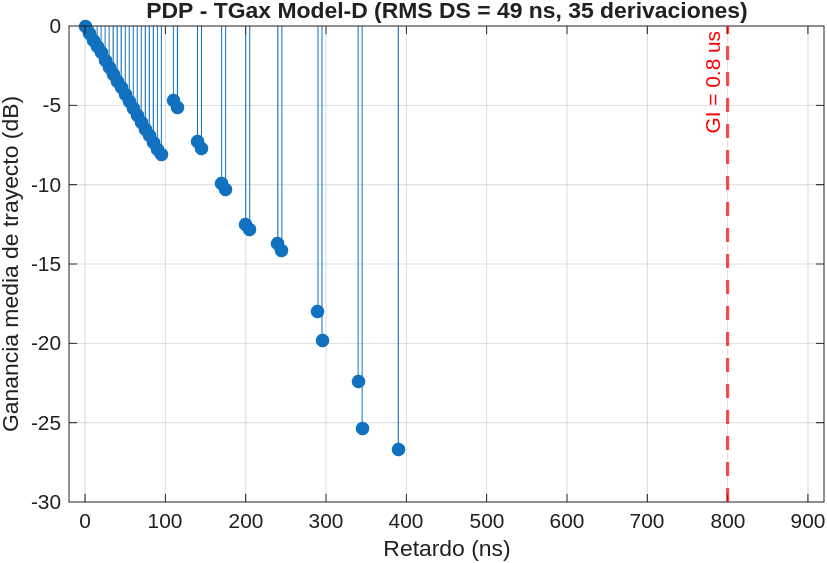
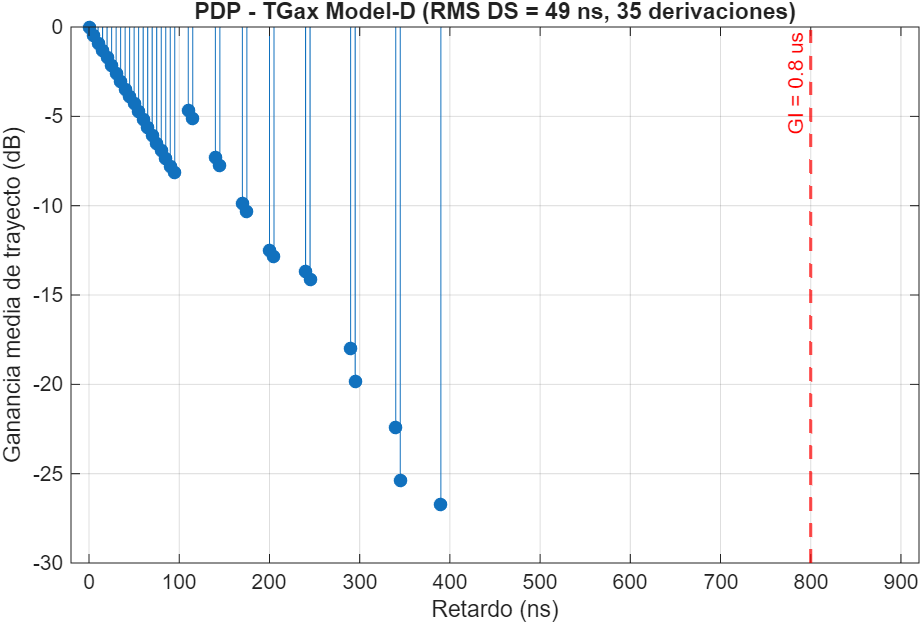
Rol C Receptor

Changed region(s): [[0.0, 0.0, 1.0, 0.9964], [0.8767, 0.302, 0.9069, 0.4831], [0.8767, 0.6039, 0.9069, 0.6341]]

diff --git a/matlab/receptor_wifi.m b/matlab/receptor_wifi.m
@@ -1,0 +1,119 @@
+% =========================================================================
+% ROL C - RECEPTOR Wi-Fi 7 (802.11be) - SOLO RECEPCION (sin validacion)
+% Equipo 4 - Interfaces de Comunicaciones
+% =========================================================================
+%
+% Uso recomendado (integracion con el equipo):
+%   1) Ejecutar transmisor y canal para obtener: cfgEHT y rxWaveform
+%   2) Ejecutar este script
+%
+% Este script hace:
+%   - Deteccion basica de inicio de paquete
+%   - Alineacion y recorte de la PPDU recibida
+%   - Salida de una estructura rxOut util para quien valida (PER/BER)
+%   - Grafica simple en tiempo para comparacion rapida
+
+clearvars -except cfgEHT rxWaveform txWaveform txPad chan p
+close all;
+
+%% 0) Modo demo si no hay senal de entrada integrada -----------------------
+if ~exist('cfgEHT','var') || ~exist('rxWaveform','var')
+    fprintf(['No se encontro una entrada integrada (cfgEHT + rxWaveform).\n' ...
+             'Ejecutando un flujo demo con transmisor y canal del repositorio...\n\n']);
+
+    % Reusar el transmisor existente del rol A
+    transmisor;
+
+    % Parametros del canal compatibles con test_channel.m
+    p.chanBW             = 'CBW80';
+    p.numRxAntennas      = 2;
+    p.delayProfile       = 'Model-D';
+    p.txRxDistance       = 11;
+    p.carrierFrequency   = 5.29e9;
+    p.environmentalSpeed = 0.089;
+    p.largeScaleFading   = 'None';
+    p.fluorescentEffect  = false;
+
+    [chan, ~] = channel_config(p, cfgEHT);
+
+    release(chan);
+    reset(chan);
+    rxWaveform = chan(txPad);
+end
+
+%% 1) Parametros basicos de recepcion --------------------------------------
+fs = wlanSampleRate(cfgEHT);
+cbw = cfgEHT.ChannelBandwidth;
+
+% Deteccion simple de inicio de paquete con la primera antena Rx
+pktOffset = wlanPacketDetect(rxWaveform(:,1), cbw);
+if isempty(pktOffset)
+    warning(['No se detecto inicio de paquete con wlanPacketDetect. ' ...
+             'Se asume inicio en la muestra 1.']);
+    pktOffset = 0;
+end
+
+pktStart = pktOffset + 1;
+
+% Longitud esperada de la PPDU para recorte rapido
+ind = wlanFieldIndices(cfgEHT);
+ppduLen = ind.EHTData(2);
+pktEnd = min(pktStart + ppduLen - 1, size(rxWaveform,1));
+
+rxPPDU = rxWaveform(pktStart:pktEnd, :);
+
+% Normalizacion de amplitud para facilitar etapas posteriores
+scale = max(abs(rxPPDU(:)));
+if scale > 0
+    rxPPDU = rxPPDU ./ scale;
+end
+
+%% 2) Salida del receptor para integracion con validacion -------------------
+rxOut = struct();
+rxOut.fs = fs;
+rxOut.channelBandwidth = cbw;
+rxOut.packetOffset = pktOffset;
+rxOut.packetStartSample = pktStart;
+rxOut.packetEndSample = pktEnd;
+rxOut.rxPPDU = rxPPDU;
+rxOut.numRxAntennas = size(rxPPDU,2);
+rxOut.numSamples = size(rxPPDU,1);
+
+fprintf('=== Receptor Wi-Fi (solo recepcion) ===\n');
+fprintf('Ancho de banda           : %s\n', cbw);
+fprintf('Frecuencia de muestreo   : %.2f MHz\n', fs/1e6);
+fprintf('Inicio detectado         : muestra %d\n', pktStart);
+fprintf('Fin de PPDU (recortado)  : muestra %d\n', pktEnd);
+fprintf('Tamano rxPPDU            : %d x %d (muestras x antenas Rx)\n\n', ...
+    rxOut.numSamples, rxOut.numRxAntennas);
+
+%% 3) Grafica simple para comparacion rapida --------------------------------
+t_us = (0:rxOut.numSamples-1).'/fs*1e6;
+
+figure('Name','Receptor Wi-Fi - Senal recibida en tiempo', 'Color','w');
+plot(t_us, real(rxOut.rxPPDU(:,1)), 'LineWidth', 1.0);
+grid on;
+xlabel('Tiempo (us)');
+ylabel('Amplitud (parte real, Rx1)');
+title('Senal recibida en el tiempo (PPDU recortada y normalizada)');
+
+% Si existe Tx en workspace, mostrar comparacion visual rapida de magnitudes
+if exist('txPad','var')
+    txLen = min(size(txPad,1), size(rxWaveform,1));
+    txMag = abs(txPad(1:txLen,1));
+    rxMag = abs(rxWaveform(1:txLen,1));
+
+    txMag = txMag ./ max(txMag + eps);
+    rxMag = rxMag ./ max(rxMag + eps);
+    t2_us = (0:txLen-1).'/fs*1e6;
+
+    figure('Name','Comparacion rapida Tx/Rx', 'Color','w');
+    plot(t2_us, txMag, 'LineWidth', 1.0);
+    hold on;
+    plot(t2_us, rxMag, 'LineWidth', 1.0);
+    grid on;
+    xlabel('Tiempo (us)');
+    ylabel('Magnitud normalizada');
+    legend('Tx (antena 1)', 'Rx (antena 1)', 'Location', 'best');
+    title('Comparacion visual rapida de magnitud en tiempo');
+end

diff --git a/docs/enunciado.md b/docs/enunciado.md
@@ -1,0 +1,275 @@
+## Asignación de Proyecto Extraclase
+
+Simulación de Interfaces de Comunicaciones en MATLAB / Simulink
+
+## 1. Objetivo del proyecto
+
+Diseñar, simular y validar el enlace de comunicaciones (transmisor–canal–receptor) de una interfaz real de la industria, utilizando los toolboxes especializados de MATLAB/Simulink, y compartir el trabajo mediante un video explicativo de 15-20 minutos.
+
+El video es el único entregable y debe demostrar tanto el dominio técnico (resultados de simulación) como la comprensión conceptual del estándar (historia, arquitectura, tendencias).
+
+## 2. Alcance y herramientas
+
+El proyecto cubre seis interfaces, de las categorías alambrada, inalámbrica de área local/personal, y celular:
+
+- Interconexión de alta velocidad: PCIe, USB, Ethernet — mediante SerDes Toolbox, con gen- eración de modelos IBIS-AMI compatibles con la industria.
+
+- Redes inalámbricas de área local/personal: Wi-Fi y Bluetooth — mediante WLAN Toolbox y Bluetooth Toolbox, con formas de onda conformes a IEEE 802.11 y a la especificación Bluetooth SIG.
+
+- Red celular: 5G NR — mediante 5G Toolbox, con modelos de canal 3GPP (CDL/TDL).
+
+Se requiere licencia completa de MATLAB con acceso a los toolboxes mencionados. Todo equipo debe partir de un ejemplo oficial de MathWorks correspondiente a su tecnología antes de modificar parámetros propios.
+
+## 3. Estructura de equipos y roles
+
+Los 27 estudiantes del curso se organizarán en 6 equipos de 4 ó 5 personas. El tamaño del equipo depende de la carga conceptual de la tecnología asignada (ver sección 4).
+
+## 3.1 Equipos de 4 personas (PCIe, USB, Bluetooth)
+
+| Rol | Responsabilidad | Resultado |
+| --- | --- | --- |
+| A — Transmisor | Configurar la señal según el están- | Script/modelo que genera |
+|   | dar: modulación, parámetros de | la señal conforme al están- |
+|   | capa física, formato de trama. | dar. |
+| B — Canal | Modelar un único escenario de canal | Modelo de canal |
+|   | representativo (alcance acotado: sin | parametrizado y justi- |
+|   | barrido de sensibilidad). | ficado con literatura o |
+|   |   | especificación del estándar. |
+
+
+| Rol | Responsabilidad | Resultado |   |
+| --- | --- | --- | --- |
+| C — Receptor / Vali- | Medir métricas de desempeño y com- | Métricas de conformi- |   |
+| dación | parar contra los límites que exige el | dad (eye | diagram, |
+|   | estándar. | BER/PER/BLER, EVM, |   |
+|   |   | según la tecnología). |   |
+
+## 3.2 Equipos de 5 personas (Ethernet, Wi-Fi, 5G NR)
+
+| Rol | Responsabilidad | Resultado |
+| --- | --- | --- |
+| A — Transmisor | Configurar la señal según el están- | Script/modelo que genera |
+|   | dar: modulación, parámetros de | la señal conforme al están- |
+|   | capa física, formato de trama. | dar. |
+| B — Canal | Modelar un único escenario de canal | Modelo de canal |
+|   | representativo (alcance acotado: sin | parametrizado y justi- |
+|   | barrido de sensibilidad). | ficado con literatura o |
+|   |   | especificación del estándar. |
+| C — Receptor / Vali- | Medir métricas de desempeño y com- | Métricas de conformi- |
+| dación | parar contra los límites que exige el | dad (eye diagram, |
+|   | estándar. | BER/PER/BLER, EVM, |
+|   |   | según la tecnología). |
+| D — Integración téc- | Apoyo directo a A/B/C: ensambla | Modelo integrado funcio- |
+| nica | el flujo Tx-Canal-Rx a medida que | nando de principio a fin. |
+|   | cada pieza está lista, sin esperar al fi- |   |
+|   | nal. Necesario porque estas tres tec- |   |
+|   | nologías tienen mayor carga concep- |   |
+|   | tual (MIMO, numerología, cálculo de |   |
+|   | COM). |   |
+
+## 4. Asignación de temas por equipo
+
+| Equipo Tecnología Tamaño Toolbox |   |   | Métrica clave |
+| --- | --- | --- | --- |
+| 1 | PCIe | 4 | SerDes Toolbox Eye diagram, COM, mod- |
+|   |   |   | elo IBIS-AMI |
+| 2 | USB | 4 | SerDes Toolbox Eye diagram, BER |
+| 3 | Ethernet | 5 | SerDes Toolbox Máscara IEEE 802.3, |
+|   |   |   | COM |
+| 4 | Wi-Fi | 5 | WLAN Tool- PER / BER / throughput |
+|   |   |   | box vs. SNR |
+| 5 | Bluetooth | 4 | Bluetooth BER, interferencia de |
+|   |   |   | Toolbox WLAN |
+| 6 | 5G NR | 5 | 5G Toolbox BLER, throughput vs. nu- |
+|   |   |   | merología |
+
+## 5. Descripción detallada por equipo
+
+
+## 5.1 Equipo 1 — PCIe (4 personas, SerDes Toolbox)
+
+- Rol A (Transmisor): Configurar el transmisor en la app SerDes Designer para PCIe 6.0/7.0: modulación PAM4, tasa de símbolo, pre-énfasis.
+
+- Rol B (Canal): Modelar un único canal de interconexión representativo (parámetros-S de una traza de PCB, pérdida de inserción y crosstalk) con ecualización (CTLE/DFE/FFE).
+
+- comparar el margen contra los requisitos de conformidad de PCI-SIG. Rol C (Receptor/Validación): Generar diagrama de ojo y curva de bathtub para ese escenario;
+
+Punto de partida oficial (MathWorks): https://www.mathworks.com/help/serdes/getting-start ed-with-serdes-toolbox.html — incluye diseños de referencia (white-box examples) explícitos para PCIe. [URL 🔗](https://www.mathworks.com/help/serdes/getting-started-with-serdes-toolbox.html)
+
+## 5.2 Equipo 2 — USB (4 personas, SerDes Toolbox)
+
+- Rol A (Transmisor): Configurar el transmisor para USB4 Versión 2.0: modulación PAM3, arqui- tectura de túnel de datos.
+
+- Rol B (Canal): Modelar un único escenario de cable USB-C representativo (longitud, atenuación, reflexión por conector).
+
+- Rol C (Receptor/Validación): Medir BER y eye diagram para ese escenario.
+
+Punto de partida oficial (MathWorks): https://www.mathworks.com/help/serdes/getting-started [URL 🔗](https://www.mathworks.com/help/serdes/getting-started-with-serdes-toolbox.html)
+
+-with-serdes-toolbox.html PAM3). [URL 🔗](https://www.mathworks.com/help/serdes/getting-started-with-serdes-toolbox.html)
+
+— el mismo grupo de diseños de referencia incluye USB4 (modulación [URL 🔗](https://www.mathworks.com/help/serdes/getting-started-with-serdes-toolbox.html)
+
+## 5.3 Equipo 3 — Ethernet (5 personas, SerDes Toolbox)
+
+- Rol A (Transmisor): Configurar el transmisor para una velocidad Ethernet específica (p. ej. 100GBASE o 400GBASE, PAM4).
+
+- Rol B (Canal): Modelar un único canal de backplane o cable de cobre representativo (Cat6a / twinax).
+
+- Rol C (Receptor/Validación): Validar contra la máscara de conformidad IEEE 802.3 correspon- diente y reportar el Channel Operating Margin (COM).
+
+- Rol D (Integración técnica): Apoyo directo a A/B/C para ensamblar el flujo completo dentro del tiempo disponible.
+
+Punto de partida oficial (MathWorks): https://www.mathworks.com/help/serdes/ug/architect ural-112g-pam4-adc-based-serdes-model.html — modelo arquitectural 112G PAM4 conforme a IEEE 802.3ck. [URL 🔗](https://www.mathworks.com/help/serdes/ug/architectural-112g-pam4-adc-based-serdes-model.html)
+
+## 5.4 Equipo 4 — Wi-Fi (5 personas, WLAN Toolbox)
+
+- Rol A (Transmisor): Generar una forma de onda 802.11 conforme (p. ej. 802.11be / Wi-Fi 7): ancho de banda de canal, MCS, flujos espaciales (MIMO).
+
+- Rol B (Canal): Aplicar un único modelo de canal WLAN representativo (multipath, desvanec-
+
+
+imiento).
+
+- Rol C (Receptor/Validación): Medir PER/BER/throughput para ese escenario y compararlo contra el enlace ideal.
+
+- Rol D (Integración técnica): Apoyo directo a A/B/C, en particular en la configuración MIMO, que añade complejidad adicional.
+
+Punto de partida oficial (MathWorks): https://www.mathworks.com/help/wlan/802.11be-end-to-e nd-simulation.html — ejemplos de simulación de enlace completo para 802.11be (Wi-Fi 7), soportado desde MATLAB R2023a. [URL 🔗](https://www.mathworks.com/help/wlan/802.11be-end-to-end-simulation.html)
+
+## 5.5 Equipo 5 — Bluetooth (4 personas, Bluetooth Toolbox)
+
+- Rol A (Transmisor): Generar formas de onda BR/EDR y LE, configurando modulación y codifi- cación.
+
+- Rol B (Canal): Modelar un único escenario de canal, incluyendo interferencia de WLAN en la banda de 2.4 GHz.
+
+- Rol C (Receptor/Validación): Medir tasa de error y evaluar el impacto de la interferencia, con y sin mitigación (frequency hopping).
+
+Punto de partida oficial (MathWorks): https://www.mathworks.com/help/bluetooth/ug/bluetoot h-br-data-and-voice-communication-with-wlan-signal-interference.html — ejemplo oficial de coexistencia Bluetooth BR/EDR con interferencia de WLAN y frequency hopping adaptativo (AFH). [URL 🔗](https://www.mathworks.com/help/bluetooth/ug/bluetooth-br-data-and-voice-communication-with-wlan-signal-interference.html)
+
+## 5.6 Equipo 6 — 5G NR (5 personas, 5G Toolbox)
+
+- Rol A (Transmisor): 15/30/60 kHz), canal físico PDSCH. Generar una forma de onda 5G NR: numerología (subcarrier spacing
+
+- Rol B (Canal): Aplicar un único modelo de canal CDL o TDL (3GPP) representativo.
+
+- Rol C (Receptor/Validación): Medir BLER y throughput para ese escenario.
+
+- Rol D (Integración técnica): Apoyo directo a A/B/C; la estructura de recursos 3GPP (grid tiempo-frecuencia) tiene la curva de aprendizaje más pronunciada de las seis tecnologías.
+
+Punto de partida oficial (MathWorks): https://www.mathworks.com/help/5g/ug/nr-pdsch-through put.html — ejemplo de referencia estándar de MathWorks para medir throughput/BLER de PDSCH con canales CDL o TDL, conforme a 3GPP. [URL 🔗](https://www.mathworks.com/help/5g/ug/nr-pdsch-throughput.html)
+
+## 6. Cronograma sugerido (4 semanas)
+
+| Semana Actividad |   |
+| --- | --- |
+| 1 | A/B/C aprenden el toolbox haciendo (sin semana dedicada solo a |
+|   | familiarización), partiendo directamente del ejemplo oficial de Math- |
+|   | Works. La integración y el video (guión sobre historia, arquitectura y |
+|   | tendencias del estándar que no dependen de resultados de simulación) |
+|   | arrancan en paralelo. |
+
+
+| Semana Actividad |   |
+| --- | --- |
+| 2 | A/B/C terminan sus bloques individuales (transmisor, canal, recep- |
+|   | tor). En los equipos de 5, el rol de Integración técnica ensambla el |
+|   | flujo en cuanto cada pieza está lista, sin esperar al final. |
+| 3 | Validación con el escenario de canal seleccionado y generación de las |
+|   | figuras de conformidad (eye diagram, BLER, etc.). |
+| 4 | Cierre de resultados, grabación de la evidencia de simulación, edición |
+|   | final y entrega del video. |
+
+## 7. Video explicativo (único entregable)
+
+Al no haber reporte escrito, el video de 15-20 minutos es el único medio donde el equipo demuestra tanto el dominio técnico (resultados de simulación) como la comprensión conceptual del estándar asignado.
+
+## 7.1 Contenido obligatorio y distribución de tiempo sugerida
+
+| Sección | Tiempo Contenido |
+| --- | --- |
+| Historia y estandarización | 2-3 min Origen del estándar, organismo responsable, |
+|   | evolución de versiones. |
+| Arquitectura y stack de ca- | 3-4 min Dónde vive el estándar en el modelo de capas; |
+| pas | bloques funcionales clave. |
+| Formato de trama / estruc- | 3-4 min Frame, PPDU o estructura de slot según cor- |
+| tura de datos | responda; qué campos lleva y por qué. |
+| Aplicaciones reales | 2 min Casos de uso actuales de la industria para esta |
+|   | tecnología. |
+| Tendencias | 2 min Hacia dónde va el estándar: próxima gen- |
+|   | eración, retos abiertos. |
+| Evidencia de la simulación | 4-5 min Resultados de MATLAB/Simulink (eye dia- |
+| propia | gram, BLER, etc.) del escenario de canal tra- |
+|   | bajado. |
+
+## 7.2 Logística de entrega
+
+- El video se entrega al profesor a través de una carpeta brindada por él.
+
+- Formato libre de producción (grabación de pantalla con narración es suficiente); no se requiere edición profesional.
+
+- Todos los grupos tendrán acceso al video de los demás para efectos de la coevaluación.
+
+## 8. Métricas normalizadas (mencionar en el video)
+
+Independientemente de la tecnología, cada equipo debe mencionar en su video estas cuatro métricas normalizadas, para que un espectador pueda comparar los seis videos entre sí:
+
+- 1. Margen de desempeño / EVM — Eye height/width para las interfaces alambradas; SNR requerido para alcanzar un BER objetivo en las inalámbricas y celular.
+
+
+- 2. Tasa de error bajo el escenario simulado — BER, PER o BLER según corresponda a la tecnología.
+
+- 3. Sensibilidad esperada a la degradación del canal — Aunque el alcance acotado no permite un barrido completo, el equipo debe explicar cualitativamente qué esperaría que pasara con el margen si el canal empeorara.
+
+- 4. Eficiencia espectral — Bits/s/Hz. Aplica a 5G NR, Wi-Fi y Bluetooth; no aplica de forma directa a las interfaces alambradas.
+
+## 9. Evaluación
+
+El profesor evaluará el trabajo de cada equipo utilizando la siguiente rúbrica:
+
+| Criterio | Peso Descripción |
+| --- | --- |
+| Implementación técnica | 30% El modelo (Tx/canal/Rx) funciona, usa las |
+| correcta | APIs del toolbox correctamente y produce |
+|   | resultados físicamente coherentes con el es- |
+|   | tándar simulado. |
+| Uso de métricas y con- | 20% Se reportan las métricas correctas para la |
+| formidad con el estándar | tecnología (eye diagram/COM, PER/BER, |
+|   | EVM, BLER, etc.) y se comparan contra |
+|   | límites reales del estándar cuando existen. |
+| Justificación del modelo de | 15% El escenario de canal elegido está fundamen- |
+| canal | tado en literatura o especificaciones del es- |
+|   | tándar, no elegido arbitrariamente. |
+| Video (contenido concep- | 35% Cubre con claridad historia, arquitec- |
+| tual + evidencia de simu- | tura/stack, formato de trama, aplicaciones, |
+| lación) | tendencias y evidencia de simulación, dentro |
+|   | del rango de 15-20 minutos, con participación |
+|   | de todos los integrantes y el segmento de pre- |
+|   | guntas anticipadas. |
+
+La nota obtenida constituirá el 50% de la nota final del proyecto.
+
+Cada equipo hará una evaluación del trabajo de los otros equipos en una escala de 1 a 5 (1: inaceptable; 2: básico; 3: suficiente; 4: muy bueno; 5: sobresaliente ) y la hará llegar al profesor vía correo electrónico a más tardear el 20/08/2026, 11:45pm. La nota promedio obtenida por cada grupo constituirá el 30% de su nota final del proyecto.
+
+Cada equipo hará una evaluación del desempeño de sus integrantes en una escala de 1 a 5 (1: nulo; 2: deficiente; 3: aceptable; 4: bueno; 5: excelente ) y la hará llegar al profesor vía correo electrónico a más tardear el 20/08/2026, 11:45pm. La nota promedio obtenida por cada integrante del grupo constituirá el 20% de su nota final del proyecto.
+
+## 10. Consideraciones finales
+
+- Toda forma de onda debe generarse mediante las funciones/apps del toolbox correspondiente, no reconstruida manualmente desde cero, salvo en los casos donde el toolbox no ofrezca soporte nativo.
+
+
+- El escenario de canal debe tener una fuente citable (paper, especificación 3GPP/IEEE, o valores típicos documentados por MathWorks) — no debe elegirse de forma arbitraria.
+
+## 11. Referencias — ejemplos oficiales de MathWorks
+
+Todos los enlaces siguientes fueron verificados directamente en la documentación oficial de MathWorks como punto de partida obligatorio para cada equipo:
+
+- 1. Equipos 1-2 (PCIe/USB): https://www.mathworks.com/help/serdes/getting-started-wit h-serdes-toolbox.html [URL 🔗](https://www.mathworks.com/help/serdes/getting-started-with-serdes-toolbox.html)
+
+- 2. Equipo 3 (Ethernet, IEEE 802.3ck): https://www.mathworks.com/help/serdes/ug/architect ural-112g-pam4-adc-based-serdes-model.html [URL 🔗](https://www.mathworks.com/help/serdes/ug/architectural-112g-pam4-adc-based-serdes-model.html)
+
+- 3. Equipo 4 (Wi-Fi / 802.11be): https://www.mathworks.com/help/wlan/802.11be-end-to-end -simulation.html [URL 🔗](https://www.mathworks.com/help/wlan/802.11be-end-to-end-simulation.html)
+
+- 4. Equipo 5 (Bluetooth, coexistencia con WLAN): https://www.mathworks.com/help/bluetooth /ug/bluetooth-br-data-and-voice-communication-with-wlan-signal-interference.html [URL 🔗](https://www.mathworks.com/help/bluetooth/ug/bluetooth-br-data-and-voice-communication-with-wlan-signal-interference.html)
+
+- 5. Equipo 6 (5G NR, PDSCH throughput): https://www.mathworks.com/help/5g/ug/nr-pdsch -throughput.html [URL 🔗](https://www.mathworks.com/help/5g/ug/nr-pdsch-throughput.html)
